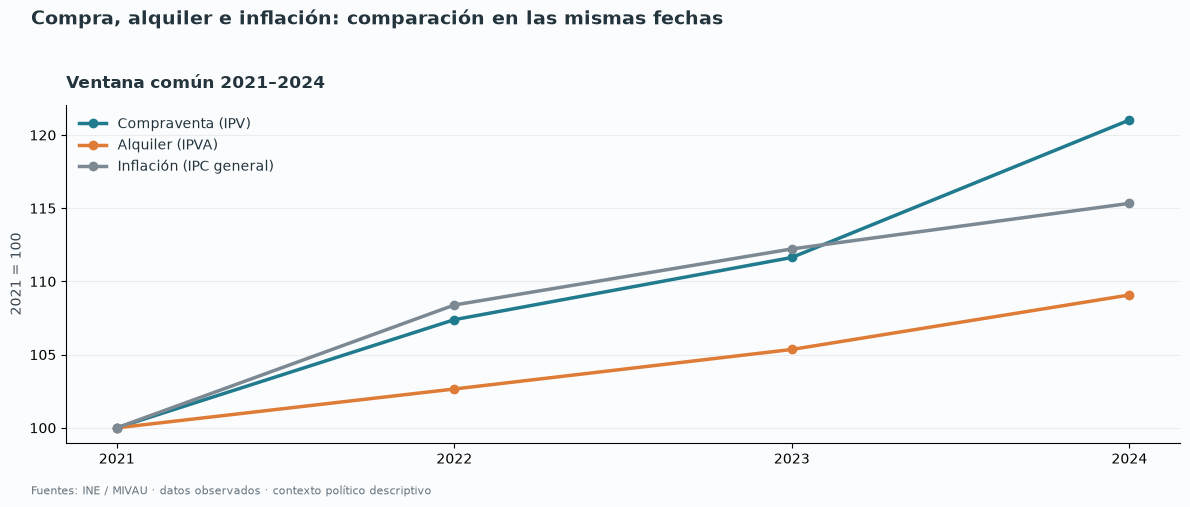
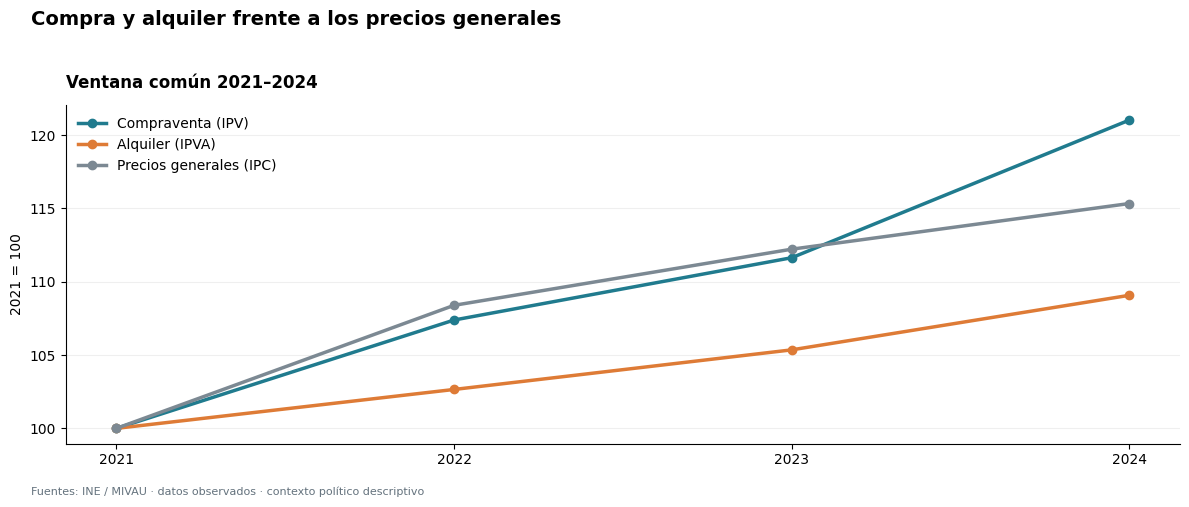
Relabel recent housing comparison as general consumer prices

diff --git a/src/spain_housing/prices_analysis.py b/src/spain_housing/prices_analysis.py
@@ -353,7 +353,7 @@ def run_analysis(root, preview_dir=None, vector=False):
     for s, label, color in [
         (p, "Compraventa (IPV)", BUY),
         (r, "Alquiler (IPVA)", RENT),
-        (cpi, "Inflación (IPC general)", "#7c8993"),
+        (cpi, "Precios generales (IPC)", "#7c8993"),
     ]:
         ax.plot(common, s.loc[common] / s.loc[first] * 100, "o-", label=label, color=color, lw=2.5)
     ax.legend(frameon=False)
@@ -362,7 +362,7 @@ def run_analysis(root, preview_dir=None, vector=False):
     save(
         fig,
         "03_indexed_comparison",
-        "Compra, alquiler e inflación: comparación en las mismas fechas",
+        "Compra y alquiler frente a los precios generales",
     )
 
     fig, axes = plt.subplots(2, 1, figsize=(13, 7))
